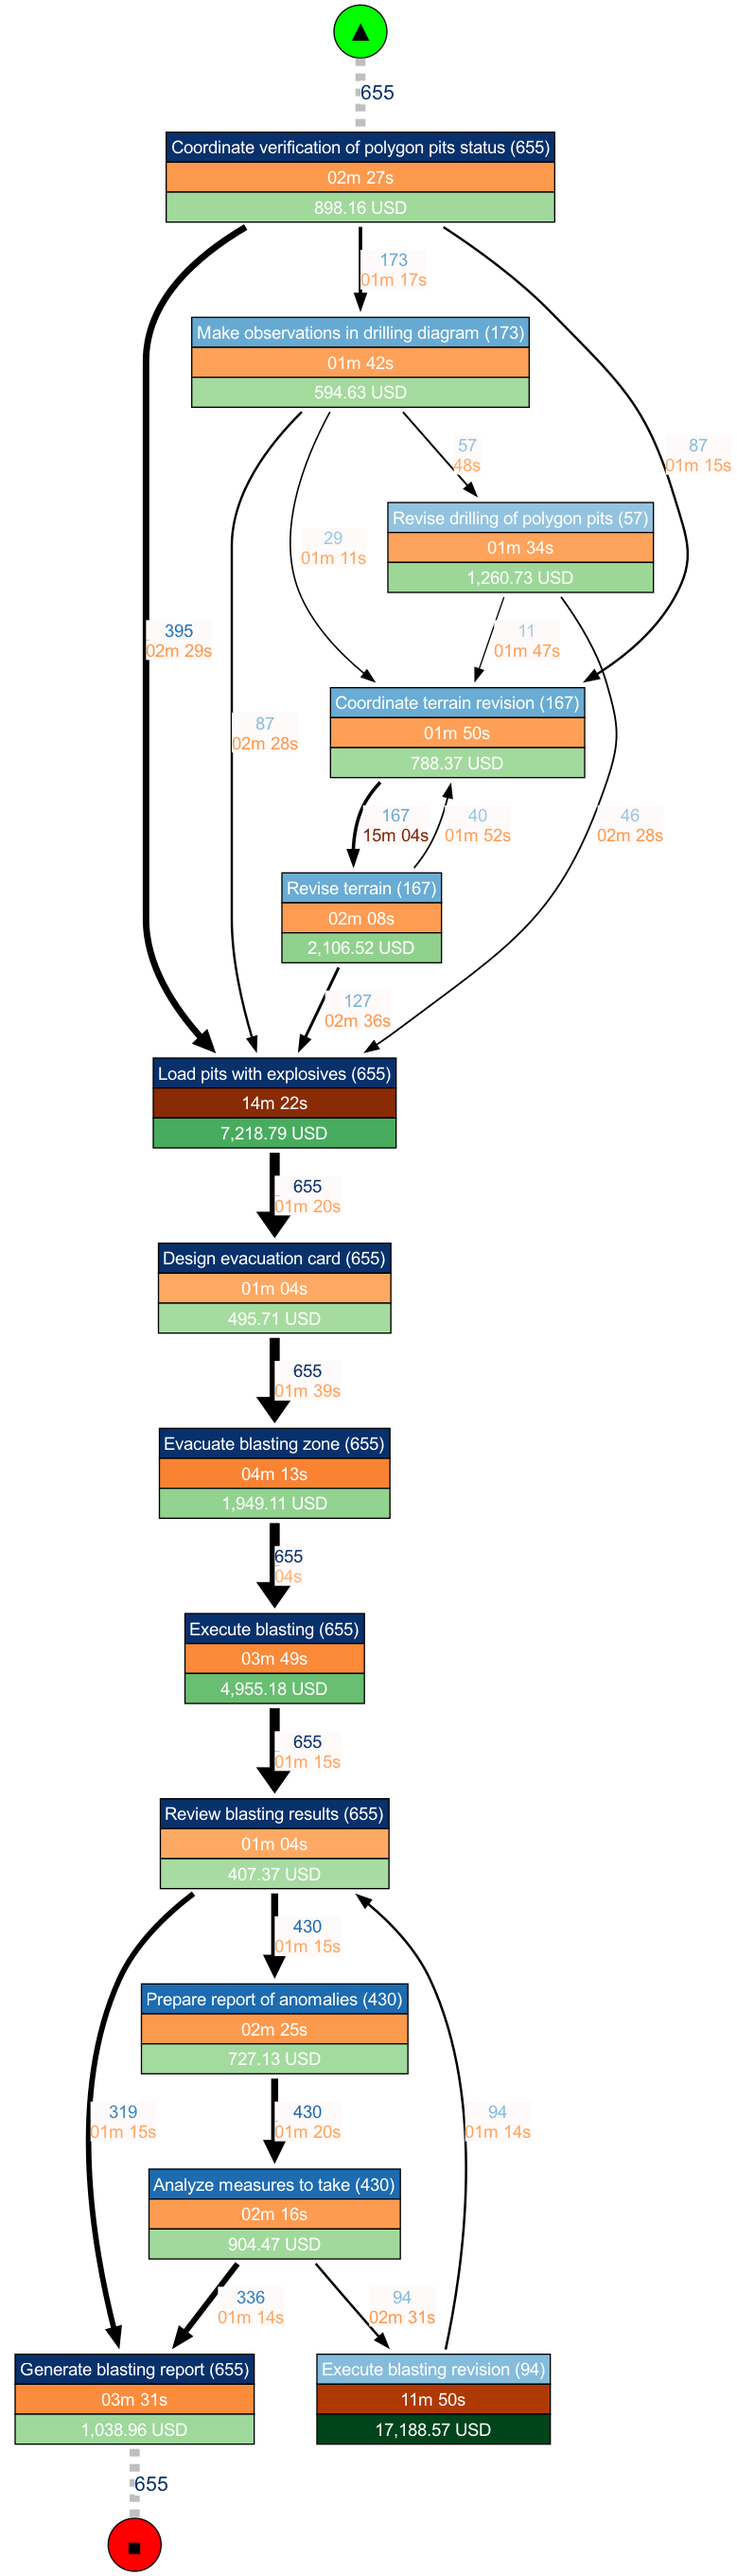
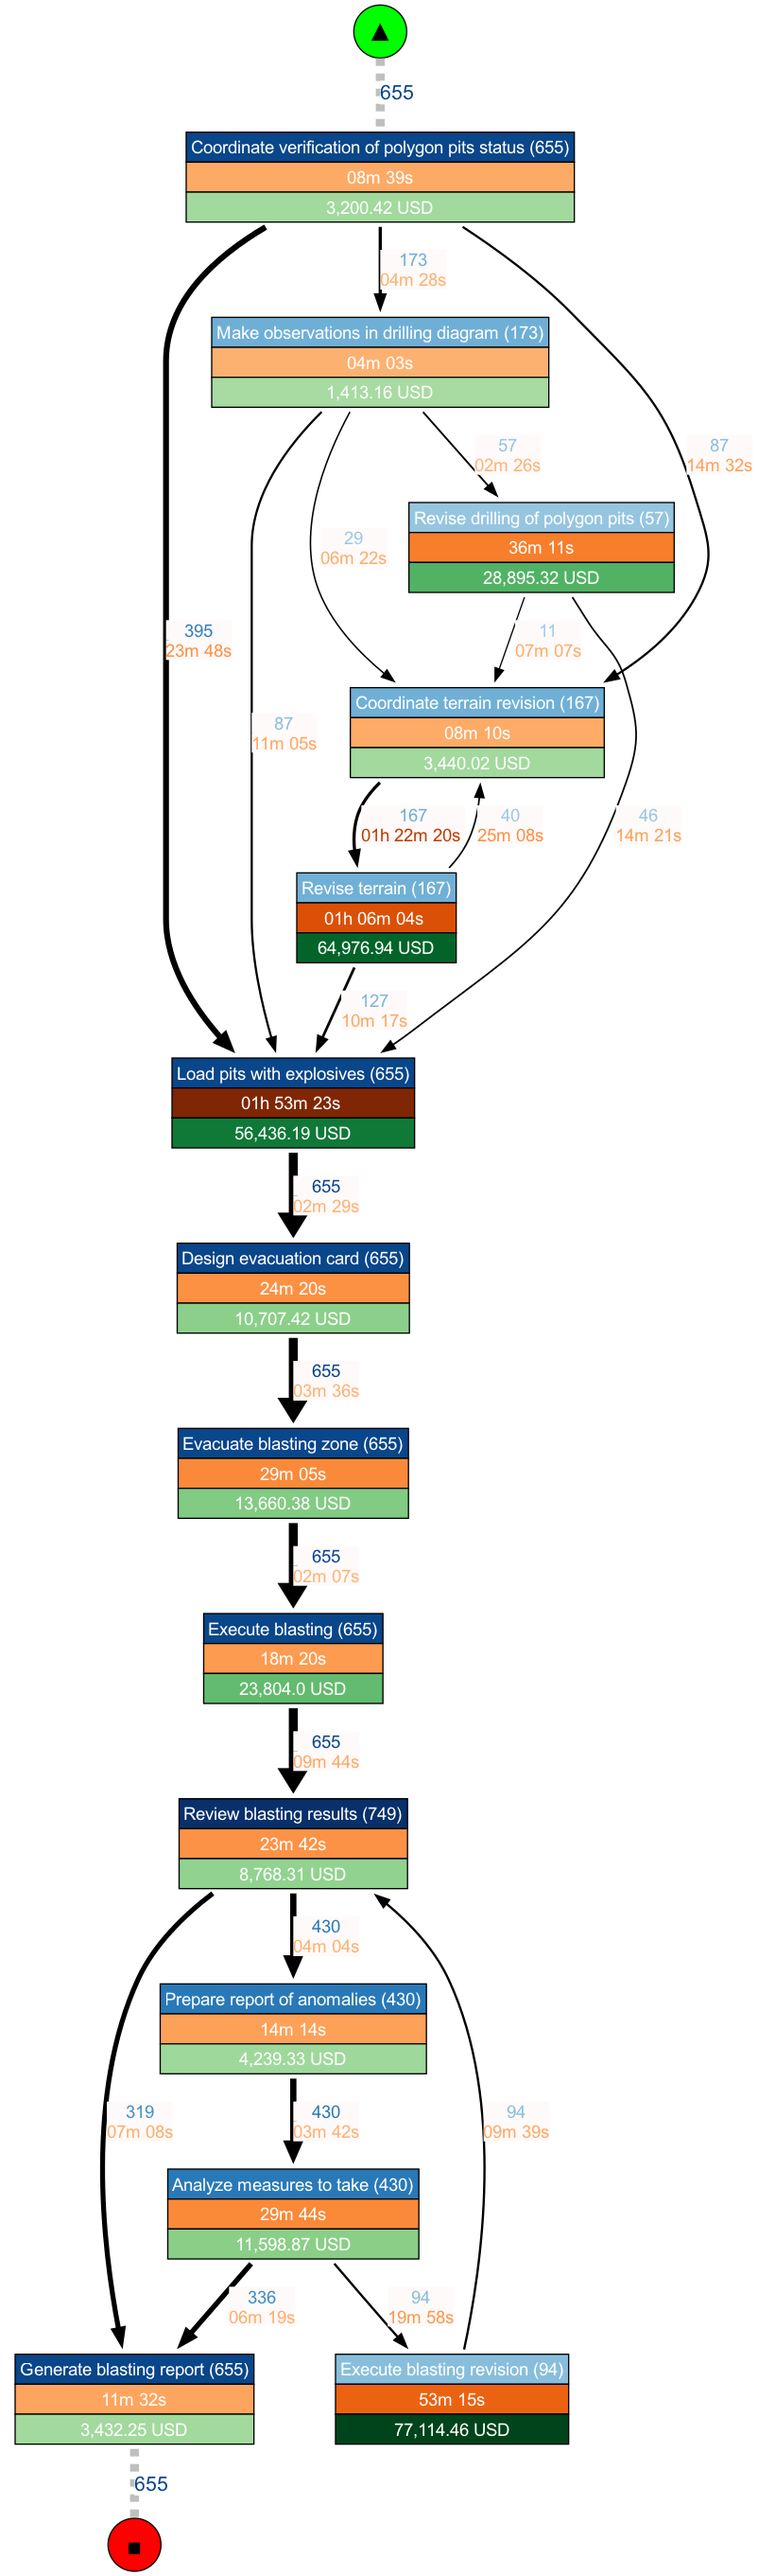
feat: update readme and examples

Changed region(s): [[0.0, 0.0, 0.9551, 0.9993], [0.4313, 0.2498, 0.5237, 0.3123], [0.6778, 0.0937, 0.7394, 0.1561]]

diff --git a/examples/blasting_process.html b/examples/blasting_process.html
@@ -4,20 +4,20 @@
 flowchart TB
 start(("&nbsp;fa:fa-play&nbsp;"))
 complete(("&nbsp;fa:fa-stop&nbsp;"))
-A0("<div style='border-radius: 7px; border: 1.5px solid black; overflow:hidden'><div style='background-color: 09468a; color: white; padding: 5px; border-bottom: 1px solid black;'>&nbsp;Coordinate verification of polygon pits status (655)&nbsp;</div><div style='background-color: fdaa65; color: white; padding: 5px; border-bottom: 1px solid black;'>&nbsp;08m 39s&nbsp;</div></div>")
-A1("<div style='border-radius: 7px; border: 1.5px solid black; overflow:hidden'><div style='background-color: 70b0d6; color: white; padding: 5px; border-bottom: 1px solid black;'>&nbsp;Coordinate terrain revision (167)&nbsp;</div><div style='background-color: fdab67; color: white; padding: 5px; border-bottom: 1px solid black;'>&nbsp;08m 10s&nbsp;</div></div>")
-A2("<div style='border-radius: 7px; border: 1.5px solid black; overflow:hidden'><div style='background-color: 70b0d6; color: white; padding: 5px; border-bottom: 1px solid black;'>&nbsp;Revise terrain (167)&nbsp;</div><div style='background-color: db5006; color: white; padding: 5px; border-bottom: 1px solid black;'>&nbsp;01h 06m 04s &nbsp;</div></div>")
-A3("<div style='border-radius: 7px; border: 1.5px solid black; overflow:hidden'><div style='background-color: 09468a; color: white; padding: 5px; border-bottom: 1px solid black;'>&nbsp;Load pits with explosives (655)&nbsp;</div><div style='background-color: 7f2704; color: white; padding: 5px; border-bottom: 1px solid black;'>&nbsp;01h 53m 23s &nbsp;</div></div>")
-A4("<div style='border-radius: 7px; border: 1.5px solid black; overflow:hidden'><div style='background-color: 09468a; color: white; padding: 5px; border-bottom: 1px solid black;'>&nbsp;Design evacuation card (655)&nbsp;</div><div style='background-color: fc9143; color: white; padding: 5px; border-bottom: 1px solid black;'>&nbsp;24m 20s&nbsp;</div></div>")
-A5("<div style='border-radius: 7px; border: 1.5px solid black; overflow:hidden'><div style='background-color: 09468a; color: white; padding: 5px; border-bottom: 1px solid black;'>&nbsp;Evacuate blasting zone (655)&nbsp;</div><div style='background-color: fa8a3a; color: white; padding: 5px; border-bottom: 1px solid black;'>&nbsp;29m 05s&nbsp;</div></div>")
-A6("<div style='border-radius: 7px; border: 1.5px solid black; overflow:hidden'><div style='background-color: 09468a; color: white; padding: 5px; border-bottom: 1px solid black;'>&nbsp;Execute blasting (655)&nbsp;</div><div style='background-color: fd9b50; color: white; padding: 5px; border-bottom: 1px solid black;'>&nbsp;18m 20s&nbsp;</div></div>")
-A7("<div style='border-radius: 7px; border: 1.5px solid black; overflow:hidden'><div style='background-color: 08306b; color: white; padding: 5px; border-bottom: 1px solid black;'>&nbsp;Review blasting results (749)&nbsp;</div><div style='background-color: fc9245; color: white; padding: 5px; border-bottom: 1px solid black;'>&nbsp;23m 42s&nbsp;</div></div>")
-A8("<div style='border-radius: 7px; border: 1.5px solid black; overflow:hidden'><div style='background-color: 09468a; color: white; padding: 5px; border-bottom: 1px solid black;'>&nbsp;Generate blasting report (655)&nbsp;</div><div style='background-color: fda55f; color: white; padding: 5px; border-bottom: 1px solid black;'>&nbsp;11m 32s&nbsp;</div></div>")
-A9("<div style='border-radius: 7px; border: 1.5px solid black; overflow:hidden'><div style='background-color: 2979b8; color: white; padding: 5px; border-bottom: 1px solid black;'>&nbsp;Prepare report of anomalies (430)&nbsp;</div><div style='background-color: fda159; color: white; padding: 5px; border-bottom: 1px solid black;'>&nbsp;14m 14s&nbsp;</div></div>")
-A10("<div style='border-radius: 7px; border: 1.5px solid black; overflow:hidden'><div style='background-color: 2979b8; color: white; padding: 5px; border-bottom: 1px solid black;'>&nbsp;Analyze measures to take (430)&nbsp;</div><div style='background-color: fa8938; color: white; padding: 5px; border-bottom: 1px solid black;'>&nbsp;29m 44s&nbsp;</div></div>")
-A11("<div style='border-radius: 7px; border: 1.5px solid black; overflow:hidden'><div style='background-color: 6fafd6; color: white; padding: 5px; border-bottom: 1px solid black;'>&nbsp;Make observations in drilling diagram (173)&nbsp;</div><div style='background-color: fdb171; color: white; padding: 5px; border-bottom: 1px solid black;'>&nbsp;04m 03s&nbsp;</div></div>")
-A12("<div style='border-radius: 7px; border: 1.5px solid black; overflow:hidden'><div style='background-color: 96c5e0; color: white; padding: 5px; border-bottom: 1px solid black;'>&nbsp;Revise drilling of polygon pits (57)&nbsp;</div><div style='background-color: f77e2b; color: white; padding: 5px; border-bottom: 1px solid black;'>&nbsp;36m 11s&nbsp;</div></div>")
-A13("<div style='border-radius: 7px; border: 1.5px solid black; overflow:hidden'><div style='background-color: 88bedc; color: white; padding: 5px; border-bottom: 1px solid black;'>&nbsp;Execute blasting revision (94)&nbsp;</div><div style='background-color: eb6211; color: white; padding: 5px; border-bottom: 1px solid black;'>&nbsp;53m 15s&nbsp;</div></div>")
+A0("<div style='border-radius: 7px; border: 1.5px solid black; overflow:hidden'><div style='background-color: 09468a; color: white; padding: 5px; border-bottom: 1px solid black;'>&nbsp;Coordinate verification of polygon pits status (655)&nbsp;</div><div style='background-color: fdaa65; color: white; padding: 5px; border-bottom: 1px solid black;'>&nbsp;08m 39s&nbsp;</div><div style='background-color: a2d99d; color: white; padding: 5px; border-bottom: 1px solid black;'>&nbsp;3200.42 USD&nbsp;</div></div>")
+A1("<div style='border-radius: 7px; border: 1.5px solid black; overflow:hidden'><div style='background-color: 70b0d6; color: white; padding: 5px; border-bottom: 1px solid black;'>&nbsp;Coordinate terrain revision (167)&nbsp;</div><div style='background-color: fdab67; color: white; padding: 5px; border-bottom: 1px solid black;'>&nbsp;08m 10s&nbsp;</div><div style='background-color: a2d99d; color: white; padding: 5px; border-bottom: 1px solid black;'>&nbsp;3440.02 USD&nbsp;</div></div>")
+A2("<div style='border-radius: 7px; border: 1.5px solid black; overflow:hidden'><div style='background-color: 70b0d6; color: white; padding: 5px; border-bottom: 1px solid black;'>&nbsp;Revise terrain (167)&nbsp;</div><div style='background-color: db5006; color: white; padding: 5px; border-bottom: 1px solid black;'>&nbsp;01h 06m 04s &nbsp;</div><div style='background-color: 03642a; color: white; padding: 5px; border-bottom: 1px solid black;'>&nbsp;64976.94 USD&nbsp;</div></div>")
+A3("<div style='border-radius: 7px; border: 1.5px solid black; overflow:hidden'><div style='background-color: 09468a; color: white; padding: 5px; border-bottom: 1px solid black;'>&nbsp;Load pits with explosives (655)&nbsp;</div><div style='background-color: 7f2704; color: white; padding: 5px; border-bottom: 1px solid black;'>&nbsp;01h 53m 23s &nbsp;</div><div style='background-color: 107937; color: white; padding: 5px; border-bottom: 1px solid black;'>&nbsp;56436.19 USD&nbsp;</div></div>")
+A4("<div style='border-radius: 7px; border: 1.5px solid black; overflow:hidden'><div style='background-color: 09468a; color: white; padding: 5px; border-bottom: 1px solid black;'>&nbsp;Design evacuation card (655)&nbsp;</div><div style='background-color: fc9143; color: white; padding: 5px; border-bottom: 1px solid black;'>&nbsp;24m 20s&nbsp;</div><div style='background-color: 8ccf8a; color: white; padding: 5px; border-bottom: 1px solid black;'>&nbsp;10707.42 USD&nbsp;</div></div>")
+A5("<div style='border-radius: 7px; border: 1.5px solid black; overflow:hidden'><div style='background-color: 09468a; color: white; padding: 5px; border-bottom: 1px solid black;'>&nbsp;Evacuate blasting zone (655)&nbsp;</div><div style='background-color: fa8a3a; color: white; padding: 5px; border-bottom: 1px solid black;'>&nbsp;29m 05s&nbsp;</div><div style='background-color: 82cb83; color: white; padding: 5px; border-bottom: 1px solid black;'>&nbsp;13660.38 USD&nbsp;</div></div>")
+A6("<div style='border-radius: 7px; border: 1.5px solid black; overflow:hidden'><div style='background-color: 09468a; color: white; padding: 5px; border-bottom: 1px solid black;'>&nbsp;Execute blasting (655)&nbsp;</div><div style='background-color: fd9b50; color: white; padding: 5px; border-bottom: 1px solid black;'>&nbsp;18m 20s&nbsp;</div><div style='background-color: 62bb6e; color: white; padding: 5px; border-bottom: 1px solid black;'>&nbsp;23804.0 USD&nbsp;</div></div>")
+A7("<div style='border-radius: 7px; border: 1.5px solid black; overflow:hidden'><div style='background-color: 08306b; color: white; padding: 5px; border-bottom: 1px solid black;'>&nbsp;Review blasting results (749)&nbsp;</div><div style='background-color: fc9245; color: white; padding: 5px; border-bottom: 1px solid black;'>&nbsp;23m 42s&nbsp;</div><div style='background-color: 92d28f; color: white; padding: 5px; border-bottom: 1px solid black;'>&nbsp;8768.31 USD&nbsp;</div></div>")
+A8("<div style='border-radius: 7px; border: 1.5px solid black; overflow:hidden'><div style='background-color: 09468a; color: white; padding: 5px; border-bottom: 1px solid black;'>&nbsp;Generate blasting report (655)&nbsp;</div><div style='background-color: fda55f; color: white; padding: 5px; border-bottom: 1px solid black;'>&nbsp;11m 32s&nbsp;</div><div style='background-color: a2d99d; color: white; padding: 5px; border-bottom: 1px solid black;'>&nbsp;3432.25 USD&nbsp;</div></div>")
+A9("<div style='border-radius: 7px; border: 1.5px solid black; overflow:hidden'><div style='background-color: 2979b8; color: white; padding: 5px; border-bottom: 1px solid black;'>&nbsp;Prepare report of anomalies (430)&nbsp;</div><div style='background-color: fda159; color: white; padding: 5px; border-bottom: 1px solid black;'>&nbsp;14m 14s&nbsp;</div><div style='background-color: 9fd89b; color: white; padding: 5px; border-bottom: 1px solid black;'>&nbsp;4239.33 USD&nbsp;</div></div>")
+A10("<div style='border-radius: 7px; border: 1.5px solid black; overflow:hidden'><div style='background-color: 2979b8; color: white; padding: 5px; border-bottom: 1px solid black;'>&nbsp;Analyze measures to take (430)&nbsp;</div><div style='background-color: fa8938; color: white; padding: 5px; border-bottom: 1px solid black;'>&nbsp;29m 44s&nbsp;</div><div style='background-color: 8ace88; color: white; padding: 5px; border-bottom: 1px solid black;'>&nbsp;11598.87 USD&nbsp;</div></div>")
+A11("<div style='border-radius: 7px; border: 1.5px solid black; overflow:hidden'><div style='background-color: 6fafd6; color: white; padding: 5px; border-bottom: 1px solid black;'>&nbsp;Make observations in drilling diagram (173)&nbsp;</div><div style='background-color: fdb171; color: white; padding: 5px; border-bottom: 1px solid black;'>&nbsp;04m 03s&nbsp;</div><div style='background-color: a7dba2; color: white; padding: 5px; border-bottom: 1px solid black;'>&nbsp;1413.16 USD&nbsp;</div></div>")
+A12("<div style='border-radius: 7px; border: 1.5px solid black; overflow:hidden'><div style='background-color: 96c5e0; color: white; padding: 5px; border-bottom: 1px solid black;'>&nbsp;Revise drilling of polygon pits (57)&nbsp;</div><div style='background-color: f77e2b; color: white; padding: 5px; border-bottom: 1px solid black;'>&nbsp;36m 11s&nbsp;</div><div style='background-color: 51b264; color: white; padding: 5px; border-bottom: 1px solid black;'>&nbsp;28895.32 USD&nbsp;</div></div>")
+A13("<div style='border-radius: 7px; border: 1.5px solid black; overflow:hidden'><div style='background-color: 88bedc; color: white; padding: 5px; border-bottom: 1px solid black;'>&nbsp;Execute blasting revision (94)&nbsp;</div><div style='background-color: eb6211; color: white; padding: 5px; border-bottom: 1px solid black;'>&nbsp;53m 15s&nbsp;</div><div style='background-color: 00441b; color: white; padding: 5px; border-bottom: 1px solid black;'>&nbsp;77114.46 USD&nbsp;</div></div>")
 start -."<span style='background-color: white; color: 09468a;'>655</span>".- A0
 A0-->|" <span style='background-color: white; color: 8bc0dd;'>87</span></br><span style='background-color: white; color: fda159;'>14m 32s</span></br>"|A1
 A1-->|" <span style='background-color: white; color: 70b0d6;'>167</span></br><span style='background-color: white; color: bd3e02;'>01h 22m 20s </span></br>"|A2

diff --git a/README.md b/README.md
@@ -1,6 +1,6 @@
 # Multi Perspective DFG Visualizer
 
- A package to visualize multi perspective Directly-Follows Graphs (DFG) based on event logs. It aims to provide insights into the relationships and dependencies between different perspectives in a given process.
+ A package to visualize multi perspective Directly-Follows Graphs (DFG) based on event logs. It aims to provide insights into the relationships and dependencies between different perspectives in a given process. The diagrams are generated via [Graphviz](https://www.graphviz.org) and also there is an option to create a diagram using [Mermaid](https://mermaid.js.org) syntaxis.
 
 
 # Installation
@@ -114,3 +114,7 @@ mpdfg.save_vis_multi_perspective_dfg(
     diagram_tool="graphviz", # or mermaid
 )
 ```
+
+# Examples
+
+Checkout [Examples](https://github.com/nicoabarca/mpdfg/blob/main/examples) to see the package being used to visualize an event log of a mining process.
